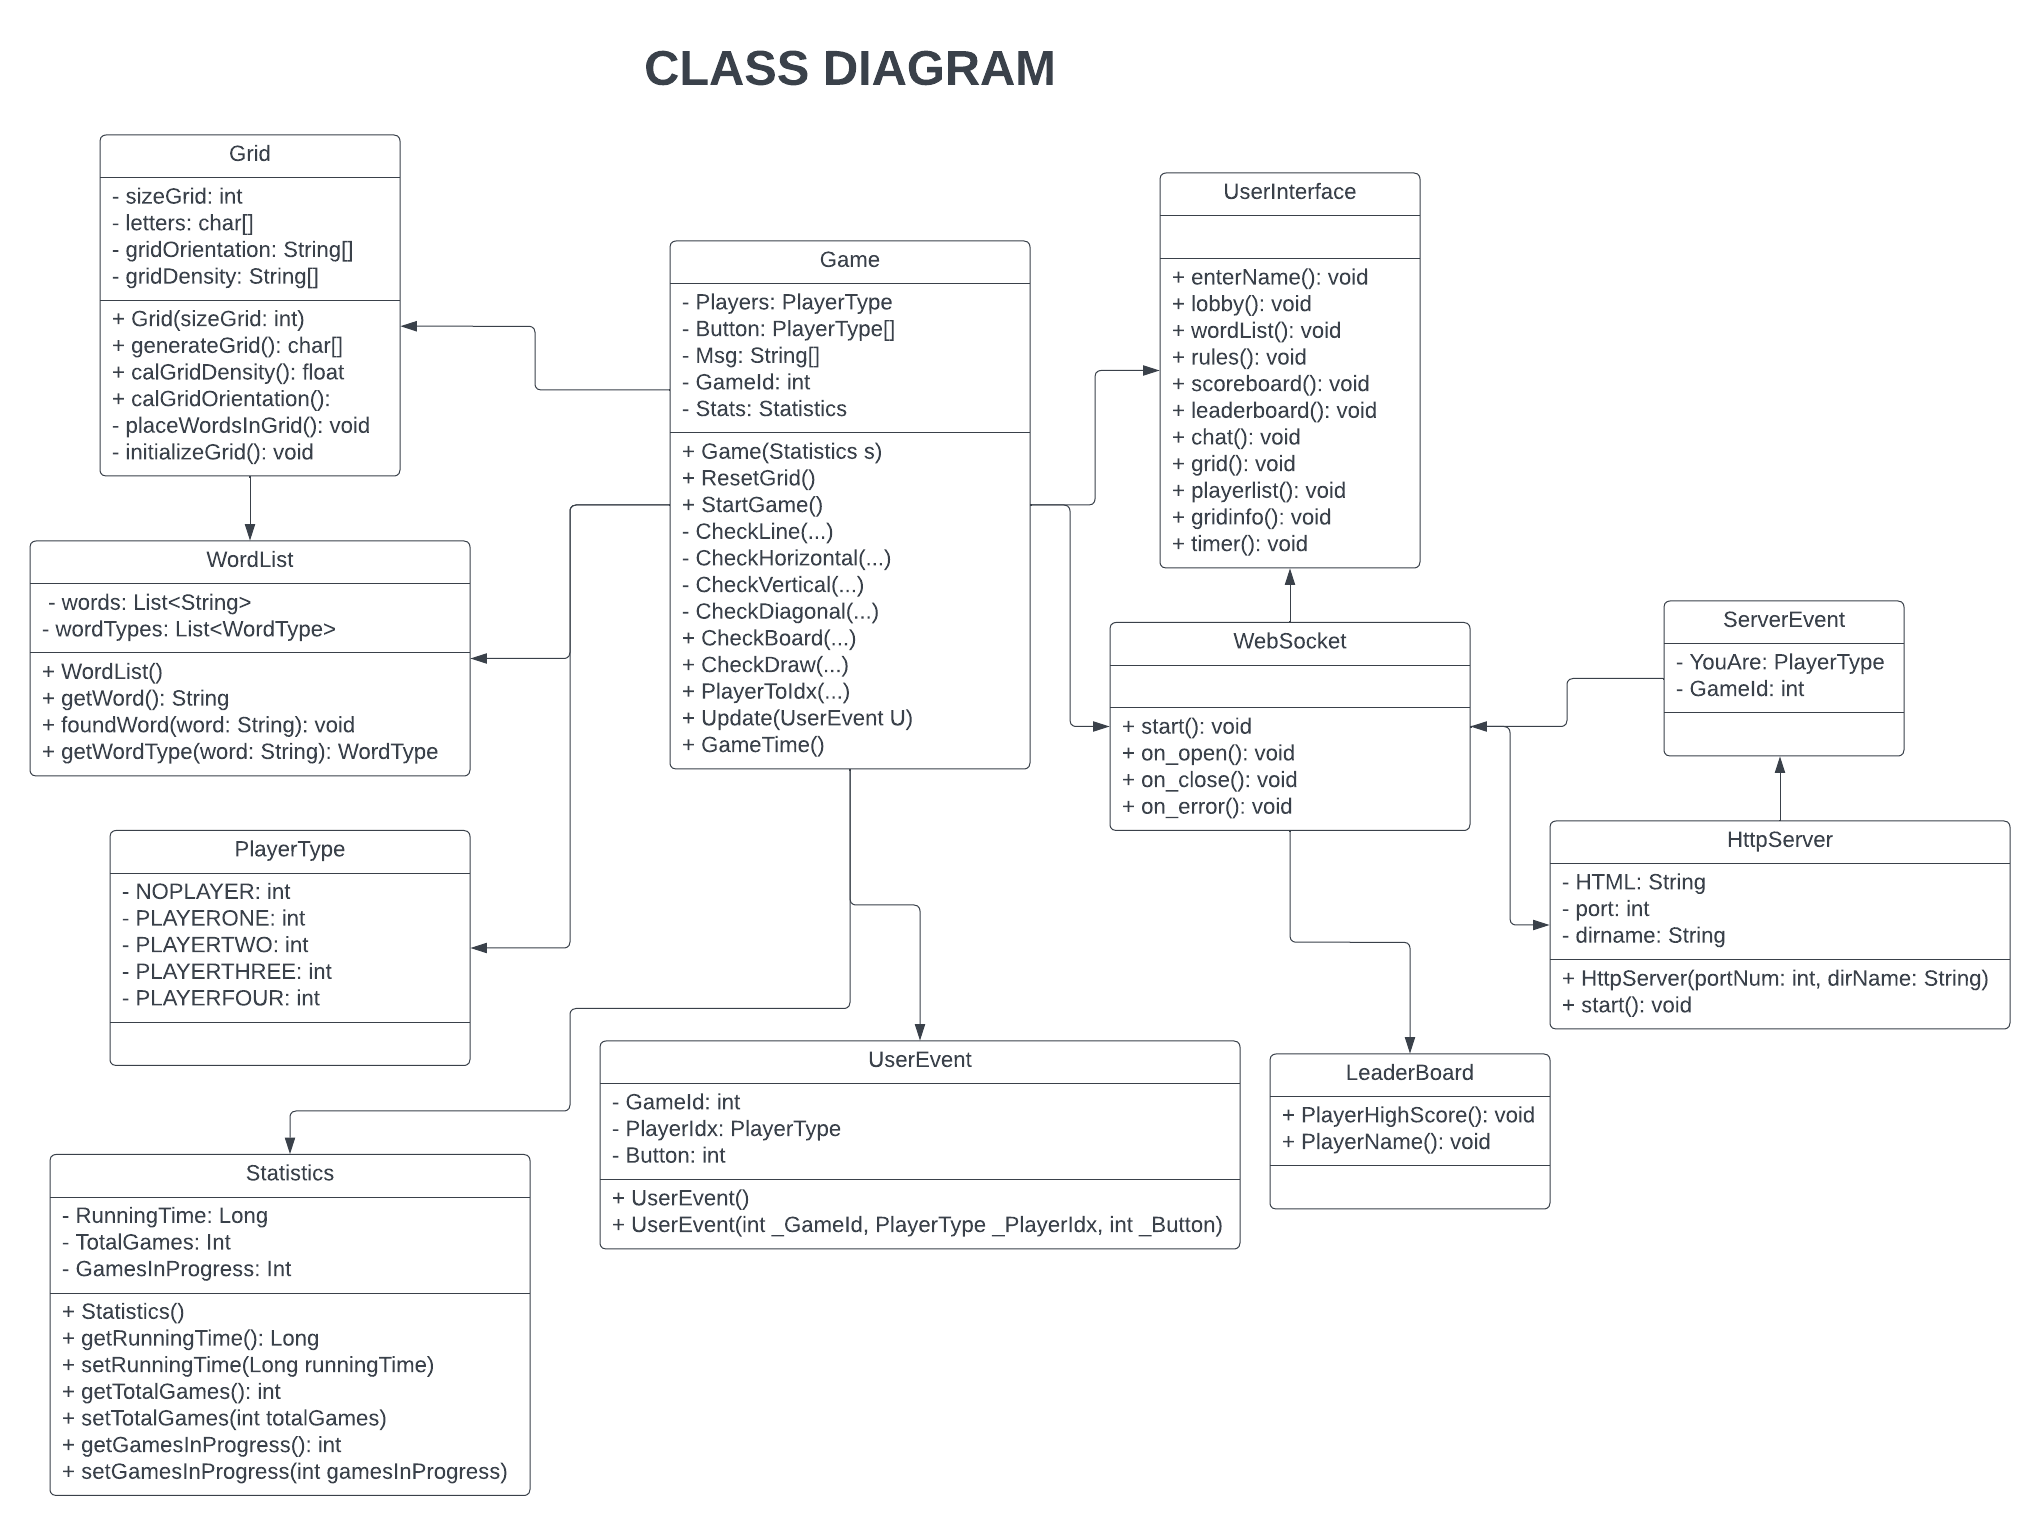
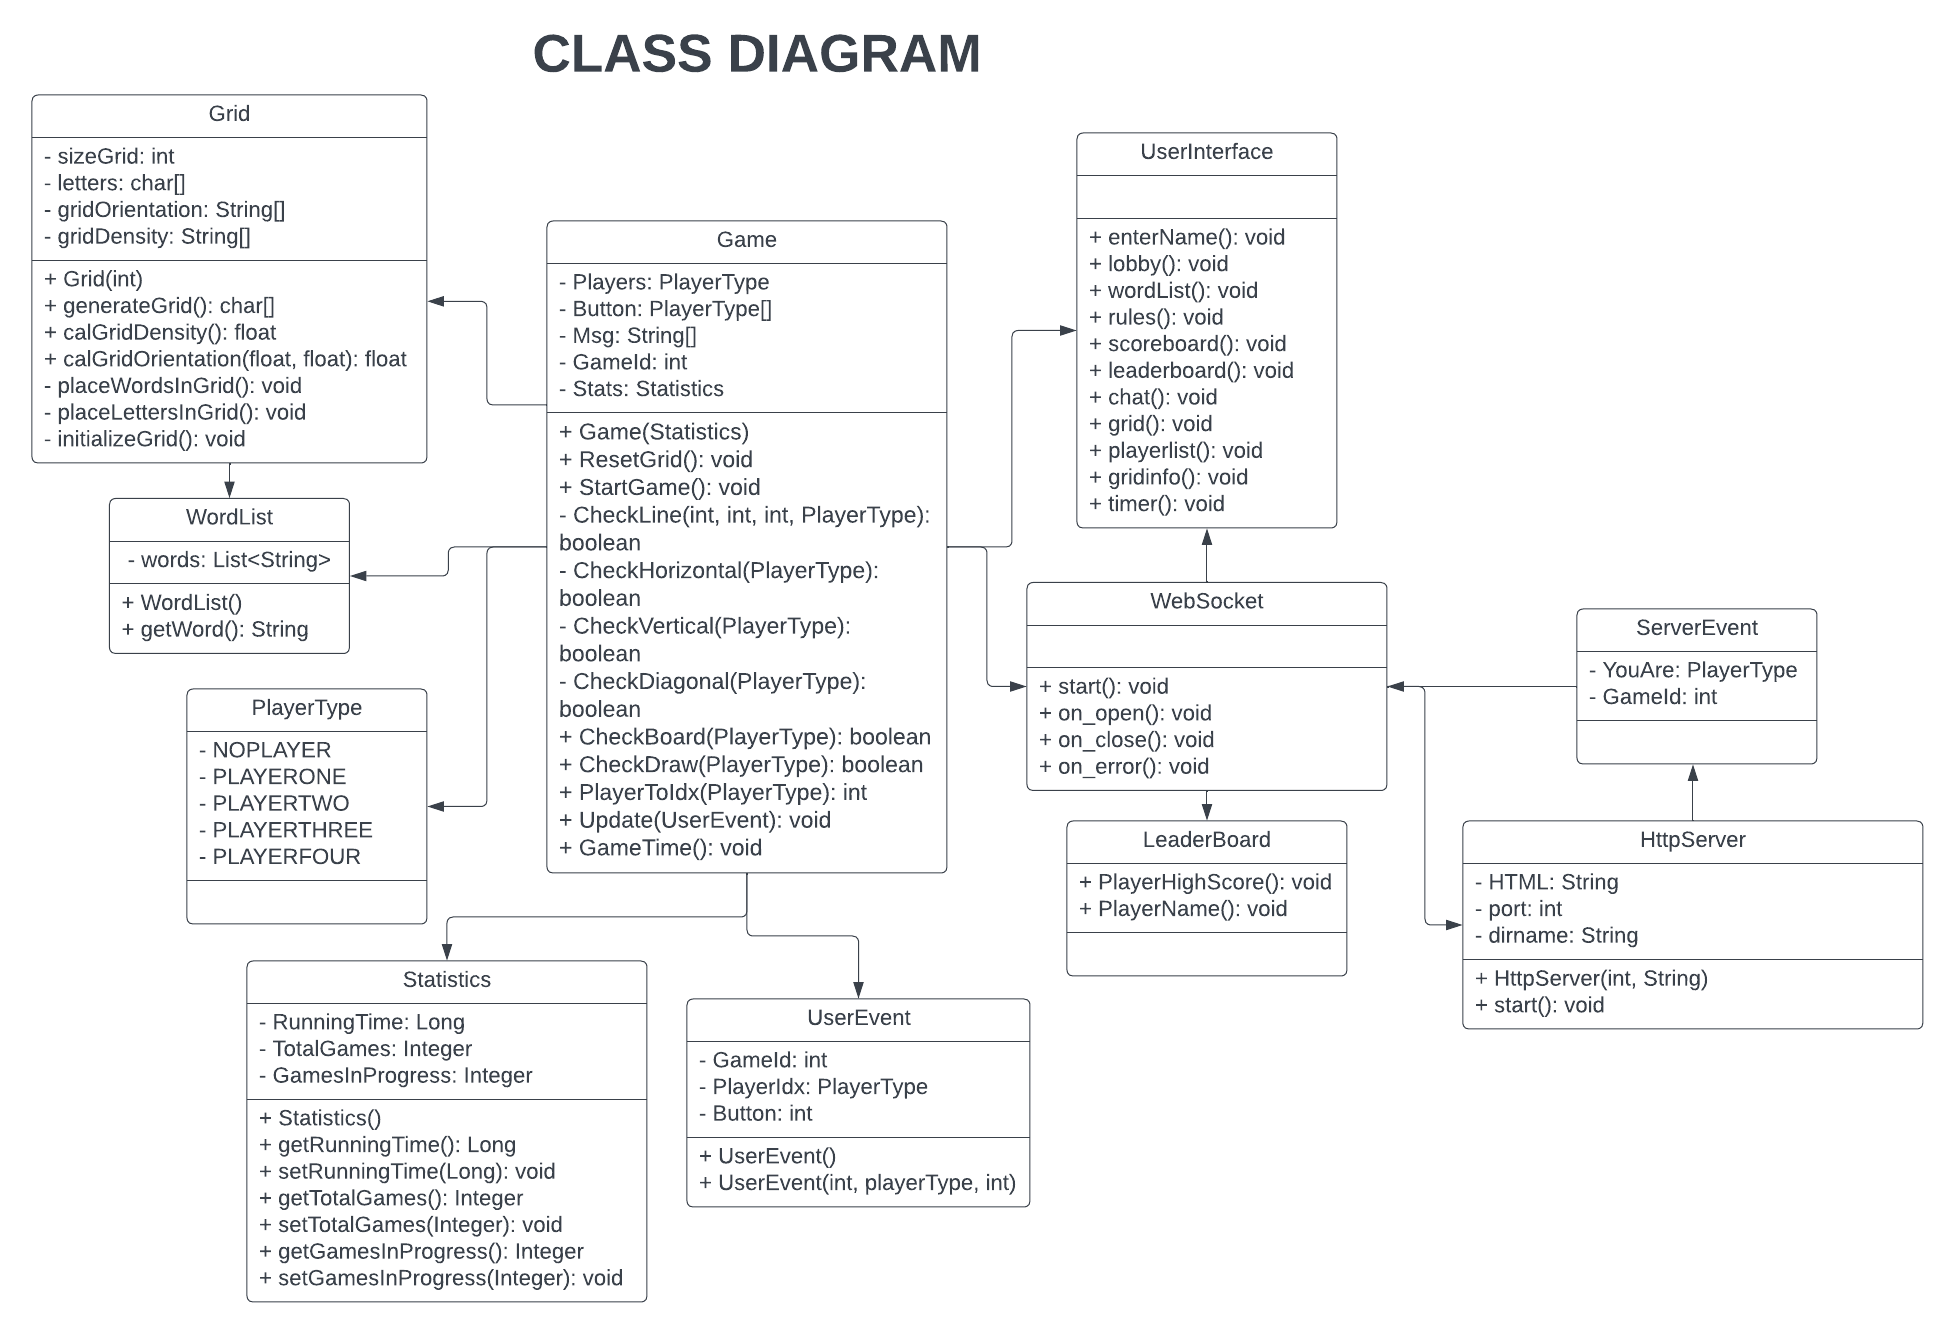
additional consistency update

diff --git a/src/main/java/uta/cse3310/UserInterface.java b/src/main/java/uta/cse3310/UserInterface.java
@@ -2,47 +2,47 @@ package uta.cse3310;
 
 public class UserInterface {
 
-    private void enterName() {
+    public void enterName() {
 
     }
 
-    private void lobby() {
+    public void lobby() {
 
     }
 
-    private void wordList() {
+    public void wordList() {
 
     }
 
-    private void rules() {
+    public void rules() {
         
     }
 
-    private void scoreBoard() {
+    public void scoreBoard() {
         
     }
 
-    private void leaderBoard() {
+    public void leaderBoard() {
         
     }
     
-    private void chat() {
+    public void chat() {
         
     }
 
-    private void grid() {
+    public void grid() {
         
     }
 
-    private void playerlist() {
+    public void playerlist() {
         
     }
 
-    private void gridinfo() {
+    public void gridinfo() {
         
     }
 
-    private void timer() {
+    public void timer() {
         
     }
 }

diff --git a/src/main/java/uta/cse3310/WordList.java b/src/main/java/uta/cse3310/WordList.java
@@ -13,8 +13,5 @@ public class WordList {
     public String getWord() {
         return null;
     }
-
-    public void foundWord(String word) {
-
-    }
+    
 }

diff --git a/README.md b/README.md
@@ -6,5 +6,7 @@
 % mvn compile
 % mvn package
 % mvn exec:java -Dexec.mainClass=uta.cse3310.App
+```
+Information on deployment:
 
-
+https://www.programonaut.com/how-to-deploy-a-git-repository-to-a-server-using-github-actions/
